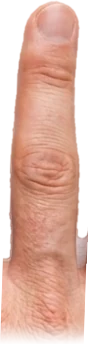
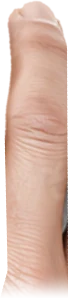
PREVIEW ONLY: curved hand from Adobe Stock comp (not for production)
Claude-Session: https://claude.ai/code/session_01PU4FbLcx8rp9mpZcyLcEXd

diff --git a/public/hands.js b/public/hands.js
@@ -19,14 +19,14 @@ const KNUCK=[-1.7,-1.4,-0.47,0.47,1.4];   /* where each finger joins the palm */
 const FW=[0.95,0.78,0.8,0.77,0.68];
 const PALMH=1.8;                                /* the back of the hand is as long as it is wide; the arm runs off the bottom edge */                /* finger widths in key widths */
 let PH={ready:false,meta:null,lmeta:null}; const kick=()=>{ if(!raf&&svg){ last=0; raf=requestAnimationFrame(tick); } };
-try{ fetch('hands/meta.json?v=4').then(r=>r.json()).then(m=>{ PH.meta=m; PH.ready=true; kick(); }).catch(()=>{});
+try{ fetch('hands/meta.json?v=5').then(r=>r.json()).then(m=>{ PH.meta=m; PH.ready=true; kick(); }).catch(()=>{});
   /* a separate photo of the left hand, when there is one (built flipped, so it is placed like the right hand and mirrored back) */
-  fetch('hands/lh/meta.json?v=4').then(r=>r.ok?r.json():null).then(m=>{ if(!m) return; PH.lmeta=m; setSrc(); kick(); }).catch(()=>{}); }catch(_){}
+  fetch('hands/lh/meta.json?v=5').then(r=>r.ok?r.json():null).then(m=>{ if(!m) return; PH.lmeta=m; setSrc(); kick(); }).catch(()=>{}); }catch(_){}
 /* three looks: 'real' (stock photo, both hands), 'me' (Pokey's own right hand, mirrored for the left), 'drawn' (vector) */
 let mode='real'; try{ const v=localStorage.getItem('ps-hmode'); if(v==='real'||v==='me'||v==='drawn') mode=v; else if(localStorage.getItem('ps-hreal')==='0') mode='drawn'; }catch(_){}
 let real=mode!=='drawn';
 fetch('hands/me/meta.json?v=1').then(r=>r.ok?r.json():null).then(m=>{ if(m){ PH.mmeta=m; if(mode==='me'){ setSrc(); kick(); } } }).catch(()=>{});
-function setSrc(){ ['rh','lh'].forEach(sd=>{ const h=H[sd]; if(!h||!h.pi) return; const pre=mode==='me'&&PH.mmeta?'hands/me/':(sd==='lh'&&PH.lmeta?'hands/lh/':'hands/'), q=pre==='hands/me/'?'?v=1':'?v=4';
+function setSrc(){ ['rh','lh'].forEach(sd=>{ const h=H[sd]; if(!h||!h.pi) return; const pre=mode==='me'&&PH.mmeta?'hands/me/':(sd==='lh'&&PH.lmeta?'hands/lh/':'hands/'), q=pre==='hands/me/'?'?v=1':'?v=5';
   Object.keys(h.pi).forEach(n=>{ const u=pre+n+'.webp'+q; if(h.pi[n].getAttribute('href')!==u) h.pi[n].setAttribute('href',u); }); }); }
 let paused=false, ro=null, lastA=null, defs=null, gp=null, gs=[], host=null, svg=null, skinBox=null, raf=0, last=0, geo={kw:20,HP:56,kbH:80,W:600,xOf:()=>0,yOf:()=>0}; const H={};
 const el=(p,tag,a)=>{ const e=document.createElementNS(NS,tag); for(const k in a) e.setAttribute(k,a[k]); p.appendChild(e); return e; };
@@ -36,7 +36,7 @@ function makeHand(side){
   const g=el(svg,'g',{}), h={side,g,on:false,init:false,x:0,py:0,f:0,tx:0,ty:0,c:0,cT:0,k:3,pm:null,pf:0,cm:null,cf:0,zf:0,over:-1,
     fx:[0,0,0,0,0],fy:[0,0,0,0,0],ftx:[0,0,0,0,0],fty:[0,0,0,0,0]};
   h.fore=el(g,'path',{}); h.sl=el(g,'path',{}); h.cu=el(g,'path',{}); h.cb=el(g,'circle',{}); h.ac=el(g,'g',{}); h.m1=el(g,'path',{}); h.thumb=fingerNodes(g,2); h.m2=el(g,'path',{}); h.fing=[1,2,3,4].map(()=>fingerNodes(g,3));
-  h.palm=el(g,'path',{}); h.pout=el(g,'path',{fill:'none','stroke-linejoin':'round'}); h.pl=el(g,'ellipse',{}); h.td=el(g,'path',{fill:'none','stroke-linecap':'round'}); h.top=el(g,'g',{}); h.pg=el(g,'g',{filter:'url(#psskin)',display:'none'}); h.pi={}; const pre=(side==='lh'&&PH.lmeta)?'hands/lh/':'hands/', vq='?v=4'; ['thumb','index','middle','ring','pinky','palm'].forEach(n=>{ h.pi[n]=el(h.pg,'image',Object.assign({href:pre+n+'.webp'+vq,preserveAspectRatio:'none'},n==='palm'?{mask:'url(#pswm)'}:{})); }); g.insertBefore(h.pg,h.sl); [h.sl,h.cu,h.cb,h.ac].forEach(x=>g.insertBefore(x,h.top));
+  h.palm=el(g,'path',{}); h.pout=el(g,'path',{fill:'none','stroke-linejoin':'round'}); h.pl=el(g,'ellipse',{}); h.td=el(g,'path',{fill:'none','stroke-linecap':'round'}); h.top=el(g,'g',{}); h.pg=el(g,'g',{filter:'url(#psskin)',display:'none'}); h.pi={}; const pre=(side==='lh'&&PH.lmeta)?'hands/lh/':'hands/', vq='?v=5'; ['thumb','index','middle','ring','pinky','palm'].forEach(n=>{ h.pi[n]=el(h.pg,'image',Object.assign({href:pre+n+'.webp'+vq,preserveAspectRatio:'none'},n==='palm'?{mask:'url(#pswm)'}:{})); }); g.insertBefore(h.pg,h.sl); [h.sl,h.cu,h.cb,h.ac].forEach(x=>g.insertBefore(x,h.top));
   H[side]=h; return h;
 }
 function fingerNodes(g,ns){ const gg=el(g,'g',{}); const o={g:gg,seg:[],hl:null};

diff --git a/public/index.html b/public/index.html
@@ -691,7 +691,7 @@ audio{width:100%}
     </div>
   </div>
 </div>
-<footer class="credits">Recorded sounds: Splendid Grand Piano (public domain) · Wurlitzer EP200 by Greg Sullivan (CC BY 3.0) · electric and upright bass by D. Smolken / Karoryfer (CC0) · drums, percussion and tenor sax from the Versilian Community Sample Library (CC0) and Sample Pi (CC0). Soloist lines are generated, not recordings. Notation by VexFlow (MIT).<br>Version 2026.11.15-bu (Ask Piano Study Suite)</footer>
+<footer class="credits">Recorded sounds: Splendid Grand Piano (public domain) · Wurlitzer EP200 by Greg Sullivan (CC BY 3.0) · electric and upright bass by D. Smolken / Karoryfer (CC0) · drums, percussion and tenor sax from the Versilian Community Sample Library (CC0) and Sample Pi (CC0). Soloist lines are generated, not recordings. Notation by VexFlow (MIT).<br>Version 2026.11.15-preview-curved (Ask Piano Study Suite)</footer>
 <div class="sheet-modal" id="sheetModal" hidden role="dialog" aria-modal="true" aria-label="Sheet music">
   <div class="sheet-bar"><b>Print</b>
     <label class="check"><input type="checkbox" id="sheetMusic" checked> Sheet music</label>
@@ -2981,7 +2981,7 @@ init();
 <script src="class.js?v=x" defer></script>
 <script src="progress.js" defer></script>
 <script src="ear.js?v=zw" defer></script>
-<script src="hands.js?v=48" defer></script>
+<script src="hands.js?v=49" defer></script>
 <script src="practice.js?v=an" defer></script>
 <script src="scale-library.js" defer></script>
 <script src="scales.js?v=8" defer></script>
